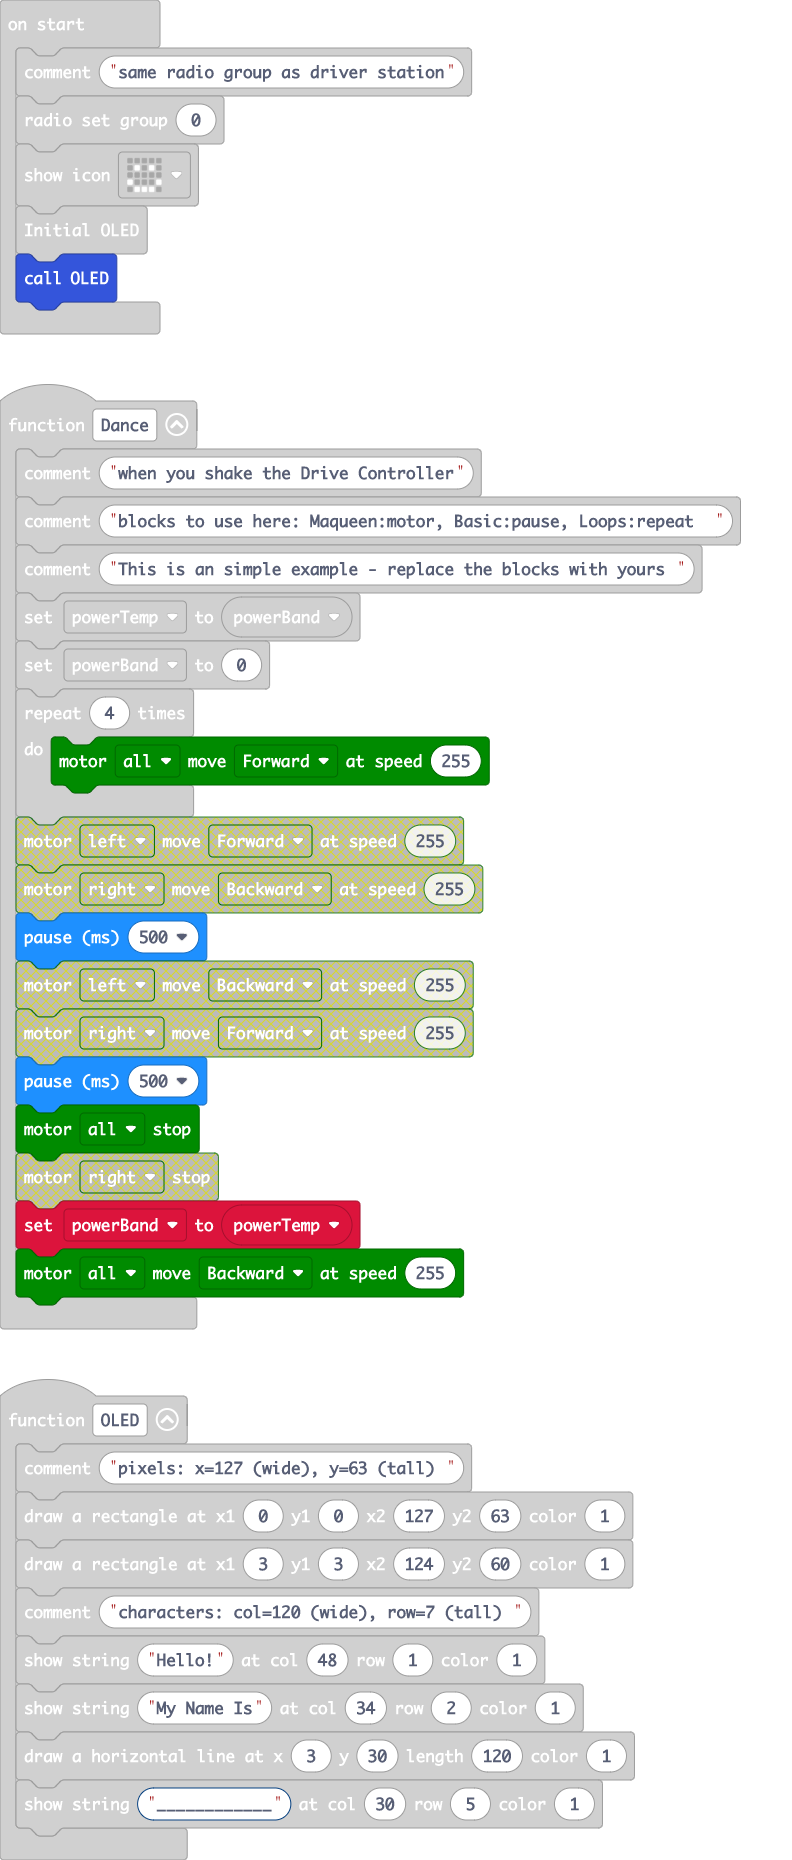
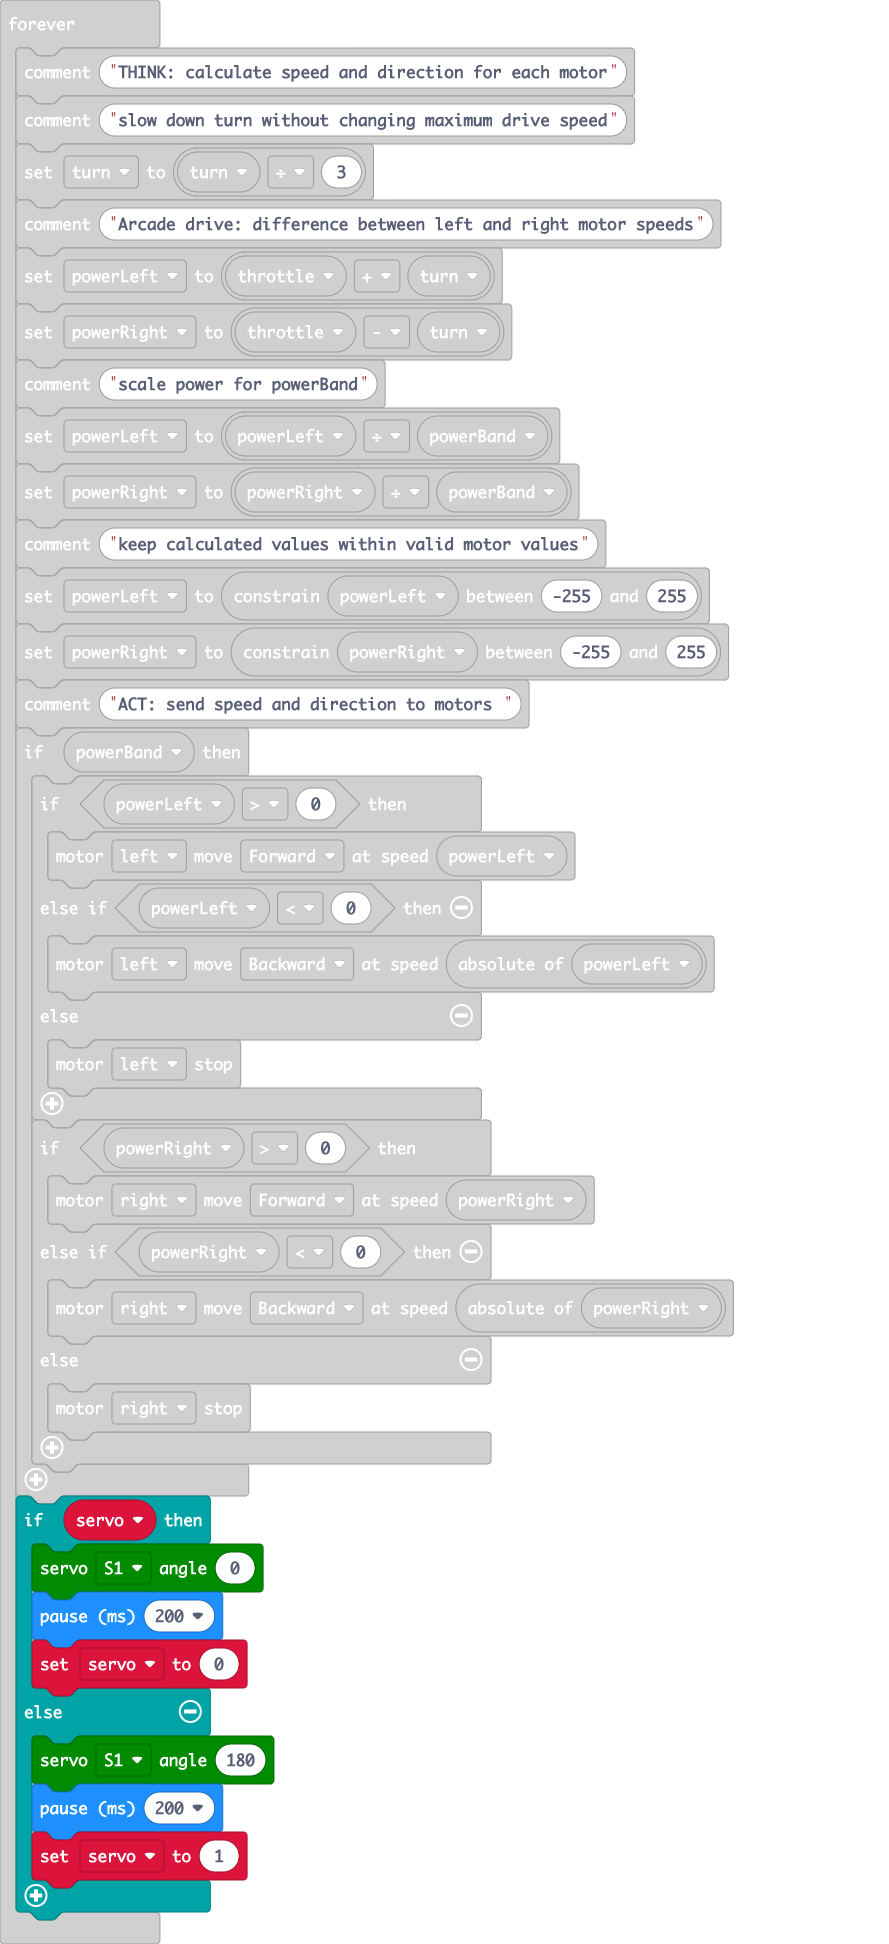
Update main.blocks, main.ts

diff --git a/main.ts b/main.ts
@@ -44,6 +44,7 @@ radio.onReceivedValue(function (name, value) {
         Dance()
     }
 })
+let servo = 0
 let powerRight = 0
 let powerLeft = 0
 let turn = 0
@@ -82,5 +83,14 @@ basic.forever(function () {
         } else {
             maqueen.motorStop(maqueen.Motors.M2)
         }
+    }
+    if (servo) {
+        maqueen.servoRun(maqueen.Servos.S1, 0)
+        basic.pause(200)
+        servo = 0
+    } else {
+        maqueen.servoRun(maqueen.Servos.S1, 180)
+        basic.pause(200)
+        servo = 1
     }
 })
